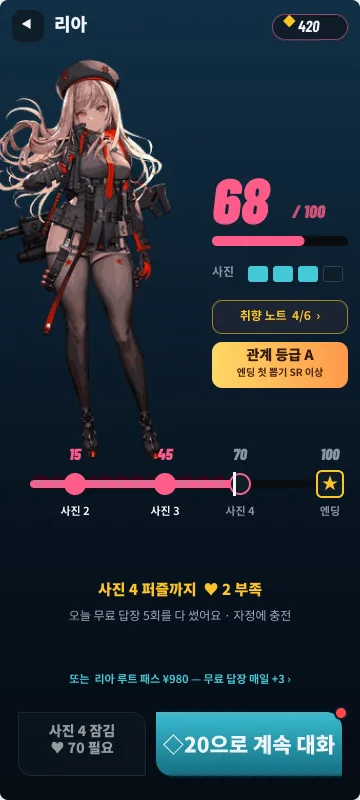
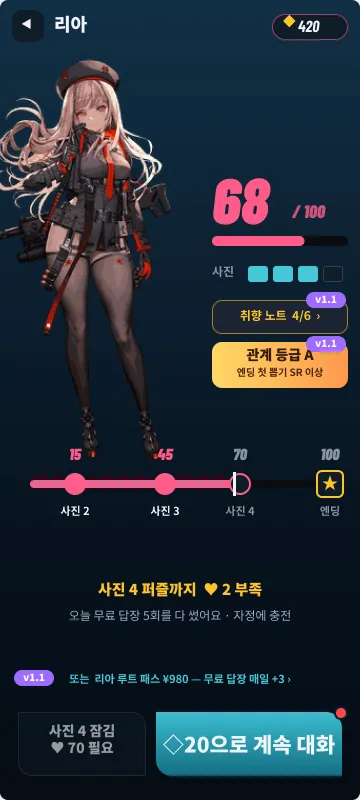
Proposal: split launch (MVP) vs update specs, add shop/album/daily-mission screens
Claude-Session: https://claude.ai/code/session_01QC4LnGUoEV4hPAaGSGh6GF

Changed region(s): [[0.825, 0.3438, 0.9778, 0.4688], [0.0306, 0.8125, 0.1528, 0.875]]

diff --git a/territory-romance-f2p-proposal.html b/territory-romance-f2p-proposal.html
@@ -71,8 +71,25 @@ section{margin:72px 0}
 .fix p{margin:0;font-size:14px;color:#c9d4e2}
 .fix p b{color:var(--yellow)}
 .fix.noimg{padding-left:18px}
+.grid4{display:grid;grid-template-columns:repeat(4,1fr);gap:16px}
+.spec{display:grid;grid-template-columns:repeat(2,1fr);gap:14px;margin-top:22px}
+.spec div{background:var(--card);border:1px solid var(--line);border-radius:14px;padding:16px 18px}
+.spec b{display:block;font-size:13px;letter-spacing:.08em;color:var(--cyan);margin-bottom:6px}
+.spec p{margin:0;font-size:14px;color:#c9d4e2;line-height:1.7}
+.cut{margin-top:14px;padding:14px 18px;border-left:4px solid #9e6bff;background:#1c1733;border-radius:8px;font-size:14px}
+.cut i{font-style:normal;background:#9e6bff;color:#fff;border-radius:8px;padding:1px 8px;font-weight:900;font-size:12px;margin-right:8px}
+.road{display:grid;grid-template-columns:repeat(3,1fr);gap:16px}
+.ver{background:var(--card);border:1px solid #3a2f63;border-radius:16px;padding:16px}
+.ver .tag{display:inline-block;background:#9e6bff;color:#fff;border-radius:999px;padding:2px 10px;font-weight:900;font-size:13px}
+.ver h3{margin:10px 0 4px;font-size:18px}
+.ver .when{font-size:12px;color:var(--muted)}
+.ver ul{margin:10px 0 0;padding-left:18px;font-size:14px;color:#c9d4e2}
+.ver .trig{margin-top:10px;font-size:12px;color:var(--yellow)}
+.ver .thumbs{display:flex;gap:8px;margin-top:12px}
+.ver .thumbs img{width:31%;border-radius:8px;border:2px solid #1c2e42}
+.vt{display:inline-block;vertical-align:middle;margin-left:6px;background:#9e6bff;color:#fff;border-radius:999px;padding:1px 8px;font-size:11px;font-weight:900}
 footer{border-top:1px solid var(--line);padding-top:18px;color:var(--muted);font-size:13px}
-@media(max-width:860px){.fixes{grid-template-columns:1fr}.duo{grid-template-columns:1fr}.hero{grid-template-columns:1fr}.nums{grid-template-columns:repeat(2,1fr)}.money,.scope{grid-template-columns:1fr}.grid3{grid-template-columns:repeat(3,minmax(0,1fr));gap:10px}}
+@media(max-width:860px){.grid4{grid-template-columns:1fr 1fr}.spec,.road{grid-template-columns:1fr}.fixes{grid-template-columns:1fr}.duo{grid-template-columns:1fr}.hero{grid-template-columns:1fr}.nums{grid-template-columns:repeat(2,1fr)}.money,.scope{grid-template-columns:1fr}.grid3{grid-template-columns:repeat(3,minmax(0,1fr));gap:10px}}
 @media(max-width:520px){.fix img{width:84px}.duo .pair figure,.duo .pair.three figure{width:48%}.duo .pair.three{flex-wrap:wrap}.shot{flex-basis:160px}.grid3{grid-template-columns:1fr 1fr}.mcard img{width:90px}}
 </style></head><body><div class="wrap">
 
@@ -150,10 +167,10 @@ footer{border-top:1px solid var(--line);padding-top:18px;color:var(--muted);font
  <div class="fixes">
   <div class="fix"><img src="japan-project/proposal-screens/n1-note.webp" alt="" loading="lazy"><div><div class="no">답을 운으로 찍는다</div><h3>취향 노트</h3><p>알아낸 취향이 선택지에 <b>태그</b>로 뜬다. 맞히는 건 실력.</p></div></div>
   <div class="fix"><img src="japan-project/proposal-screens/05-talk.webp" alt="" loading="lazy"><div><div class="no">틀리면 그냥 손해</div><h3>실패도 수집</h3><p>나쁜 답 = 싫어하는 취향 기록. <b>되돌리기 하루 1회 무료</b>, 3연속 정답 콤보 ♥+2.</p></div></div>
-  <div class="fix"><img src="japan-project/proposal-screens/p1-pass.webp" alt="" loading="lazy"><div><div class="no">돈을 세 번 묻는다</div><h3>루트 패스 ¥980</h3><p>무료 답장 매일 +3 · 이어하기 3 · 다시 뽑기 3을 <b>한 번에</b>. 구매 제안은 세션당 1회.</p></div></div>
-  <div class="fix"><img src="japan-project/proposal-screens/07-ending.webp" alt="" loading="lazy"><div><div class="no">최고 엔딩이 순전히 운</div><h3>관계 등급 보너스</h3><p>A = 첫 뽑기 <b>SR 이상 확정</b> · S = UR 확률 3배. 잘한 만큼 높게.</p></div></div>
+  <div class="fix"><img src="japan-project/proposal-screens/p1-pass.webp" alt="" loading="lazy"><div><div class="no">돈을 세 번 묻는다</div><h3>루트 패스 ¥980<span class="vt">v1.1</span></h3><p>무료 답장 매일 +3 · 이어하기 3 · 다시 뽑기 3을 <b>한 번에</b>. 구매 제안은 세션당 1회.</p></div></div>
+  <div class="fix"><img src="japan-project/proposal-screens/07-ending.webp" alt="" loading="lazy"><div><div class="no">최고 엔딩이 순전히 운</div><h3>관계 등급 보너스<span class="vt">v1.2</span></h3><p>A = 첫 뽑기 <b>SR 이상 확정</b> · S = UR 확률 3배. 잘한 만큼 높게.</p></div></div>
   <div class="fix noimg"><div><div class="no">퍼즐에서 막혀 이탈</div><h3>도움 모드</h3><p>2연속 실패 → 다음 판 <b>시작 영역 +10%</b>. 무료.</p></div></div>
-  <div class="fix noimg"><div><div class="no">무과금은 목표가 없다</div><h3>일일 미션 ◇40</h3><p>퍼즐 1 · 대화 1 · 앨범 보기. 캐릭터 한 명 끝낼 때쯤 <b>다시 뽑기 1회분</b>.</p></div></div>
+  <div class="fix noimg"><div><div class="no">무과금은 목표가 없다</div><h3>일일 미션 ◇40<span class="vt">v1.1</span></h3><p>퍼즐 1 · 대화 1 · 앨범 보기. 캐릭터 한 명 끝낼 때쯤 <b>다시 뽑기 1회분</b>.</p></div></div>
  </div>
 </section>
 
@@ -171,7 +188,7 @@ footer{border-top:1px solid var(--line);padding-top:18px;color:var(--muted);font
  <h2>숫자로 보면</h2>
  <p class="sub">출시 기준. 무과금으로도 기본 엔딩까지 도달.</p>
  <div class="nums">
-  <div class="num"><b>12명</b><span>출시 캐릭터 · 월 +2</span></div>
+  <div class="num"><b>4명</b><span>런칭 캐릭터 · 월 +2 (6개월차 12명)</span></div>
   <div class="num"><b>5장</b><span>캐릭터당 앨범 (사진 4 + 엔딩)</span></div>
   <div class="num"><b>3등급</b><span>엔딩 R · SR · UR</span></div>
   <div class="num"><b>◇ 하나</b><span>해금권 · 대화권 없음</span></div>
@@ -187,18 +204,46 @@ footer{border-top:1px solid var(--line);padding-top:18px;color:var(--muted);font
   <div class="mcard"><img src="japan-project/proposal-screens/03-timeup.webp" alt="" loading="lazy"><div><h3>이어하기 · 부스터</h3><div class="price">◇ 100~150</div><p>사진 직전 실패에서 +30초. 스타터 팩 ¥980.</p></div></div>
   <div class="mcard"><img src="japan-project/proposal-screens/06-bond.webp" alt="" loading="lazy"><div><h3>추가 답장</h3><div class="price">◇ 20 / 회</div><p>무료 5회를 다 썼는데 ♥가 모자랄 때.</p></div></div>
   <div class="mcard"><img src="japan-project/proposal-screens/e1-repull.webp" alt="" loading="lazy"><div><h3>엔딩 다시 뽑기</h3><div class="price">◇ 300</div><p>R 70 · SR 25 · UR 5%. 5회째 SR↑ · 20회째 UR 확정.</p></div></div>
-  <div class="mcard"><img src="japan-project/proposal-screens/p1-pass.webp" alt="" loading="lazy"><div><h3>캐릭터 루트 패스</h3><div class="price">¥ 980</div><p>위 세 가지를 한 번에. 캐릭터당 1회.</p></div></div>
+  <div class="mcard"><img src="japan-project/proposal-screens/p1-pass.webp" alt="" loading="lazy"><div><h3>캐릭터 루트 패스<span class="vt">v1.1</span></h3><div class="price">¥ 980</div><p>위 세 가지를 한 번에. 캐릭터당 1회.</p></div></div>
  </div>
  <div class="rule">화면에 보이는 재화는 ◇ 하나(내부는 유상/무상 분리). 사진 · 친밀도는 팔지 않는다. 기본 엔딩은 무료 1회로 보장한다. 구매 제안은 세션당 한 번.</div>
 </section>
 
-<section id="scope">
- <h2>먼저 만들 것</h2>
- <p class="sub">한 명을 끝까지 — 그걸로 재미를 확인한다.</p>
- <div class="scope">
-  <div><b>캐릭터 1명 완성</b><span>스탠딩 + 사진 4 + 엔딩 1구도 (R/SR/UR 차분)</span></div>
-  <div><b>퍼즐 10판</b><span>방해물 1종 · 부스터 2종</span></div>
-  <div><b>대화 8회 + 취향 노트 + 엔딩 뽑기</b><span>취향 6개 · 관계 등급 · UR 홀로 카드 1장</span></div>
+<section id="launch">
+ <div class="kicker">① LAUNCH · MVP</div>
+ <h2>런칭 필수 — 이것만 있으면 출시한다</h2>
+ <p class="sub">한 판 흐름 8화면 + 해금 · 다시 뽑기 · 상점 · 앨범. 화면 속 보라색 <b style="color:#b89aff">v1.1</b> 핀은 런칭 빌드에서 숨긴다.</p>
+ <div class="grid4">
+  <figure class="shot"><img src="japan-project/proposal-screens/l2-locked.webp" alt="" loading="lazy"><figcaption><b>L-2 해금</b><span>사진 3장당 1명 무료 · ◇1,000</span></figcaption></figure>
+  <figure class="shot"><img src="japan-project/proposal-screens/e1-repull.webp" alt="" loading="lazy"><figcaption><b>E-1 다시 뽑기</b><span>확률 + 5회 SR↑ · 20회 UR</span></figcaption></figure>
+  <figure class="shot"><img src="japan-project/proposal-screens/s1-shop.webp" alt="" loading="lazy"><figcaption><b>S-1 상점</b><span>◇ 6팩 + 스타터 팩 ¥980</span></figcaption></figure>
+  <figure class="shot"><img src="japan-project/proposal-screens/a1-album.webp" alt="" loading="lazy"><figcaption><b>A-1 앨범</b><span>사진 4 + 엔딩 등급 전환</span></figcaption></figure>
+ </div>
+ <div class="spec">
+  <div><b>콘텐츠</b><p>캐릭터 4명 (첫 1명 무료)<br>캐릭터당 스탠딩 1 · 사진 4 · 엔딩 1구도 (R/SR/UR 차분)<br>퍼즐 10판 · 스토리 대화 8회 (선택지 고정 시나리오, LLM 없음)</p></div>
+  <div><b>시스템</b><p>땅따먹기 퍼즐 · 이어하기/부스터 · 2연속 실패 도움 모드<br>♥ 게이트 · 취향 태그 · 나쁜 답 기록 · 되돌리기 하루 1회 무료<br>엔딩 뽑기: 첫 1회 무료 · 확률 + 스텝업</p></div>
+  <div><b>경제</b><p>재화 ◇ 하나 (내부 유상/무상 분리)<br>무료 답장 5/일 → 이후 ◇20 · 진행 해금 (사진 3장당 1명)<br>상점 6팩 + 스타터 팩 · 플랫폼 포인트 결제</p></div>
+  <div><b>연출 · 운영</b><p>UR = 정지 일러 + 홀로 셰이더 (기울이면 빛 이동)<br>플랫폼 로그인 · 결제 SDK · 서버 세이브<br>확률 표기 · 특상법 · 자금결제법 표기 · 컴프가챠 없음</p></div>
+ </div>
+ <div class="cut"><i>뺀 것</i>전체 보기·필터 · 취향 노트 화면 · 관계 등급 보너스 · 마음 콤보 · 루트 패스 · 일일 미션 · UR 애니 → 전부 업데이트로</div>
+</section>
+
+<section id="update">
+ <div class="kicker" style="color:#b89aff">② UPDATE</div>
+ <h2>업데이트 — 숫자를 보고 순서대로</h2>
+ <p class="sub">각 버전은 '이 지표가 나쁘면 당긴다'는 조건을 붙인다.</p>
+ <div class="road">
+  <div class="ver"><span class="tag">v1.1</span><h3>붙잡기 · 묶어 팔기</h3><div class="when">런칭 +1개월 [E]</div>
+   <ul><li>캐릭터 +2</li><li>일일 미션 (하루 ◇40 · 주간 ◇100)</li><li>루트 패스 ¥980</li><li>전체 보기 · 필터 (6명 넘으면)</li></ul>
+   <div class="trig">당기는 조건: D7 리텐션 · 첫 결제 전환율</div>
+   <div class="thumbs"><img src="japan-project/proposal-screens/d1-daily.webp" alt="" loading="lazy"><img src="japan-project/proposal-screens/p1-pass.webp" alt="" loading="lazy"><img src="japan-project/proposal-screens/l1-list.webp" alt="" loading="lazy"></div></div>
+  <div class="ver"><span class="tag">v1.2</span><h3>실력 보상 · 소장 가치</h3><div class="when">런칭 +2개월 [E]</div>
+   <ul><li>취향 노트 화면 + 관계 등급 보너스</li><li>마음 콤보</li><li>UR Live2D 루프 애니</li></ul>
+   <div class="trig">당기는 조건: 대화 정답률 · 06 화면 이탈률 · 다시 뽑기 전환율</div>
+   <div class="thumbs"><img src="japan-project/proposal-screens/n1-note.webp" alt="" loading="lazy"><img src="japan-project/proposal-screens/08-result.webp" alt="" loading="lazy"></div></div>
+  <div class="ver"><span class="tag">v1.3+</span><h3>확장</h3><div class="when">런칭 +3개월~</div>
+   <ul><li>퍼즐 방해물 · 부스터 추가</li><li>이벤트 캐릭터 (기간 한정)</li><li>AI 자유 대화 — LLM 비용 검증 후</li></ul>
+   <div class="trig">당기는 조건: 퍼즐 클리어율 · 콘텐츠 소진 속도</div></div>
  </div>
 </section>
 
